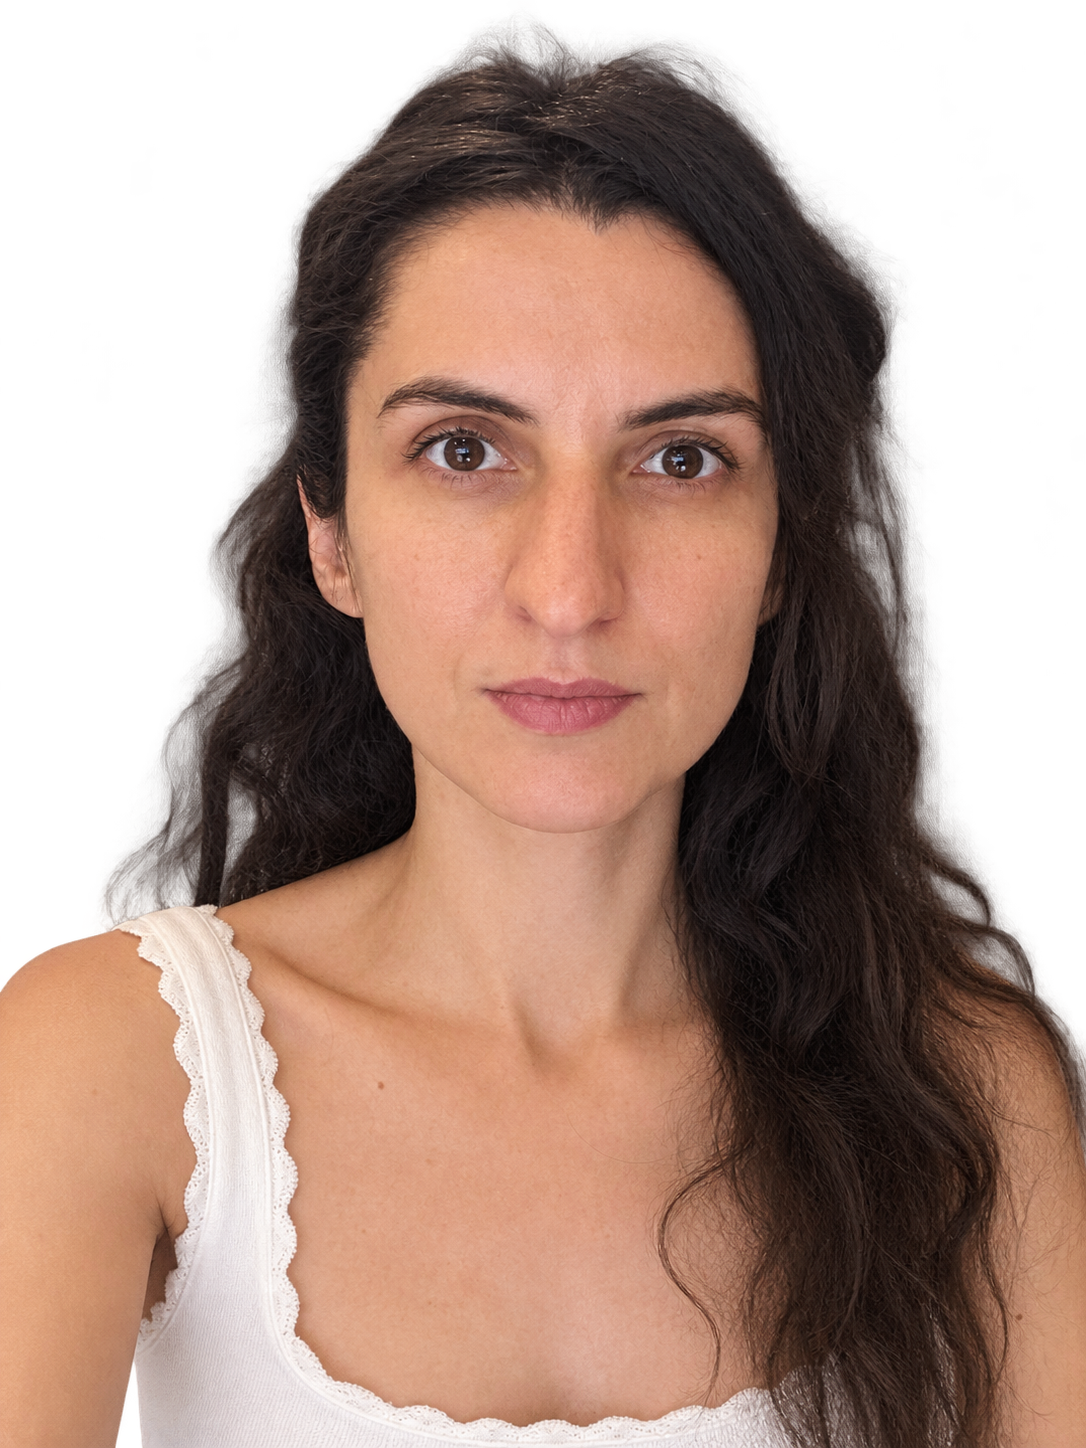
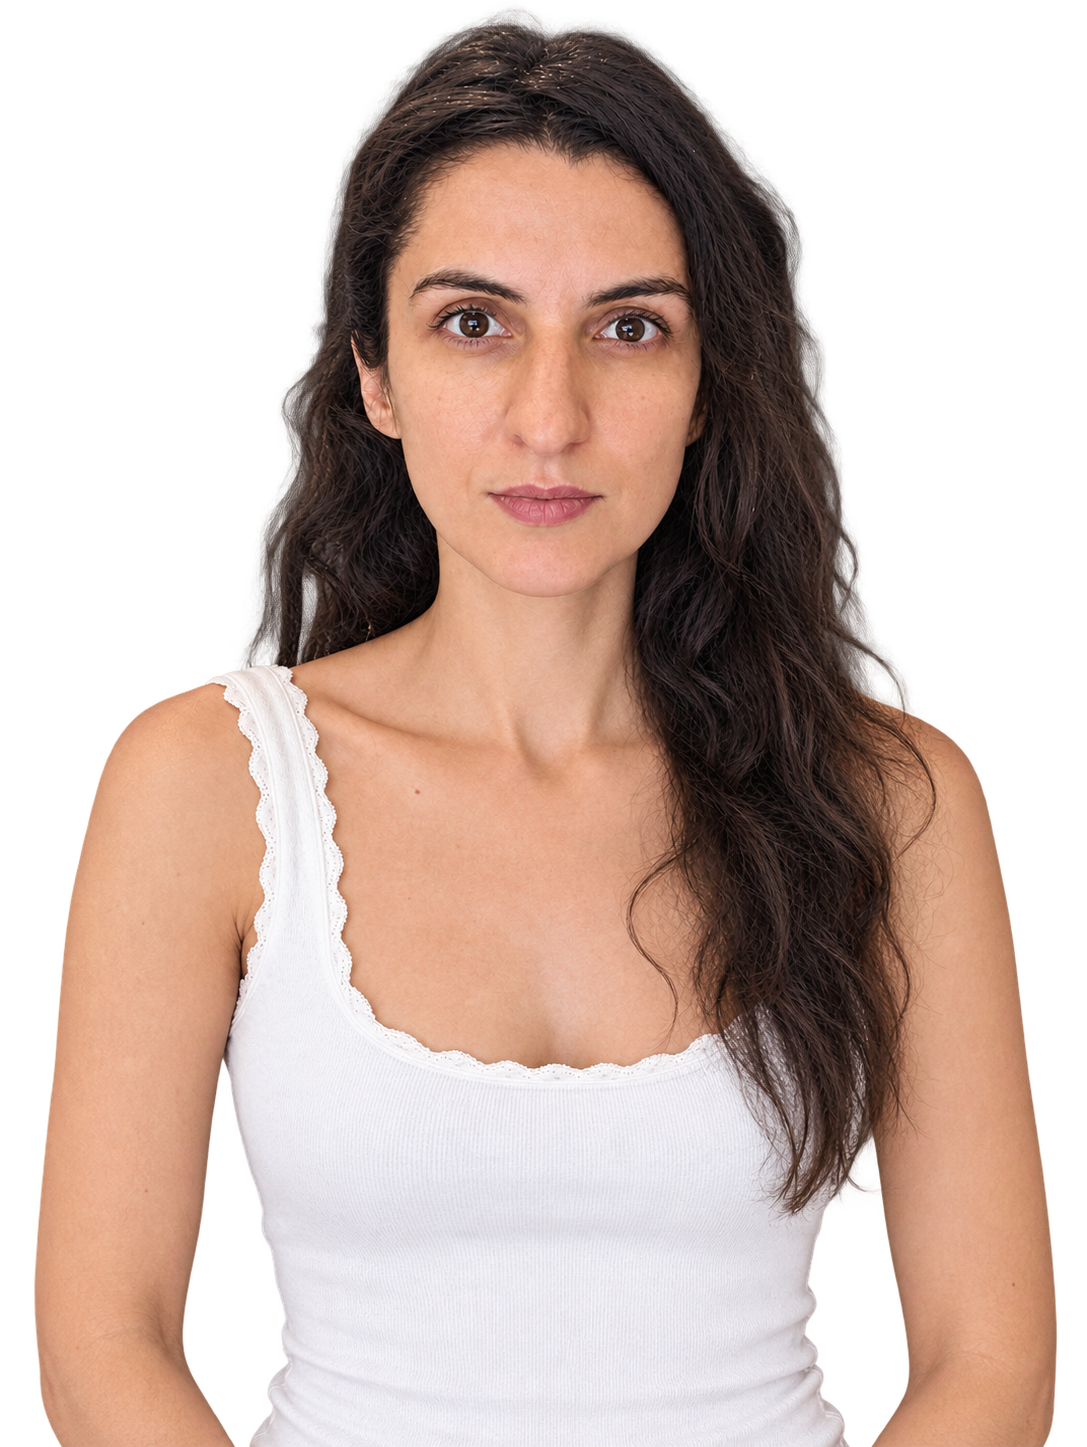
Crop hero portrait from bottom

diff --git a/styles.css b/styles.css
@@ -2716,3 +2716,30 @@ body:has(.intro-hero) .intro-secondary {
     font-size: 38px;
   }
 }
+
+body:has(.intro-hero) .intro-portrait {
+  align-items: flex-start;
+  height: min(72%, 650px);
+}
+
+body:has(.intro-hero) .intro-portrait img {
+  width: 112%;
+  height: auto;
+  max-height: none;
+  object-fit: contain;
+  object-position: center top;
+  -webkit-mask-image: linear-gradient(to bottom, #000 58%, transparent 67%);
+  mask-image: linear-gradient(to bottom, #000 58%, transparent 67%);
+}
+
+@media (max-width: 760px) {
+  body:has(.intro-hero) .intro-portrait {
+    height: 300px;
+  }
+
+  body:has(.intro-hero) .intro-portrait img {
+    width: 100%;
+    -webkit-mask-image: linear-gradient(to bottom, #000 57%, transparent 68%);
+    mask-image: linear-gradient(to bottom, #000 57%, transparent 68%);
+  }
+}
